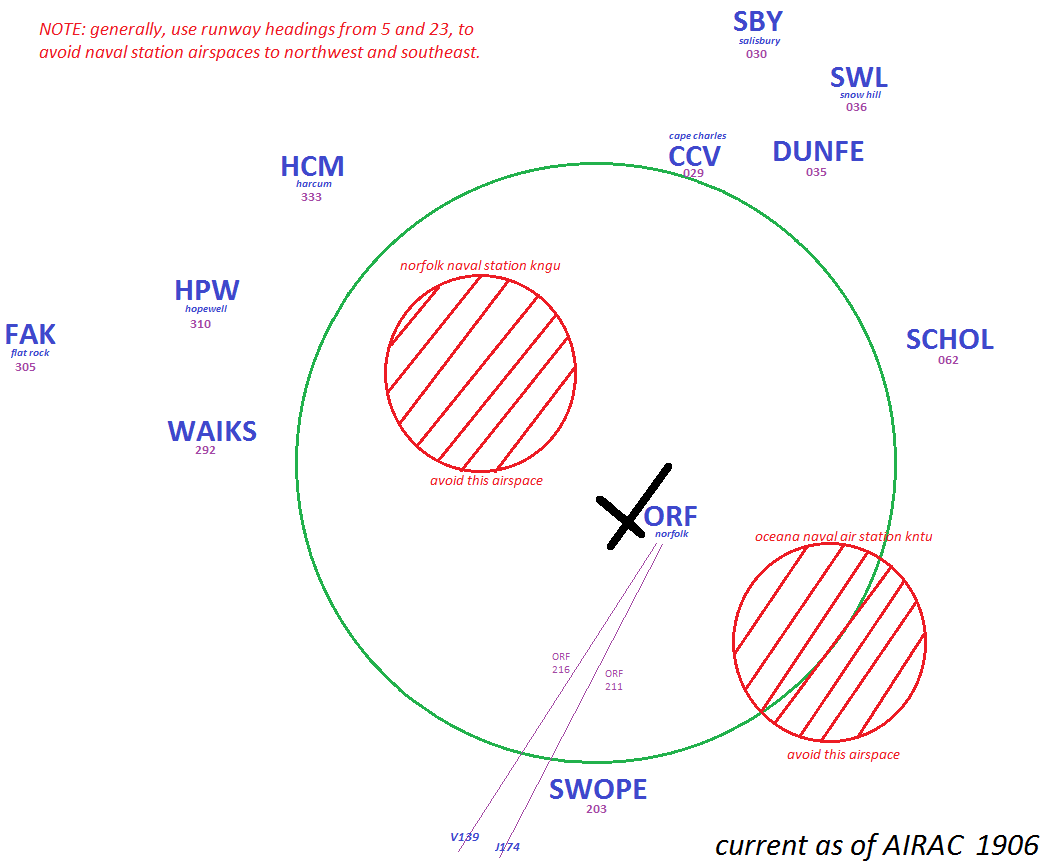
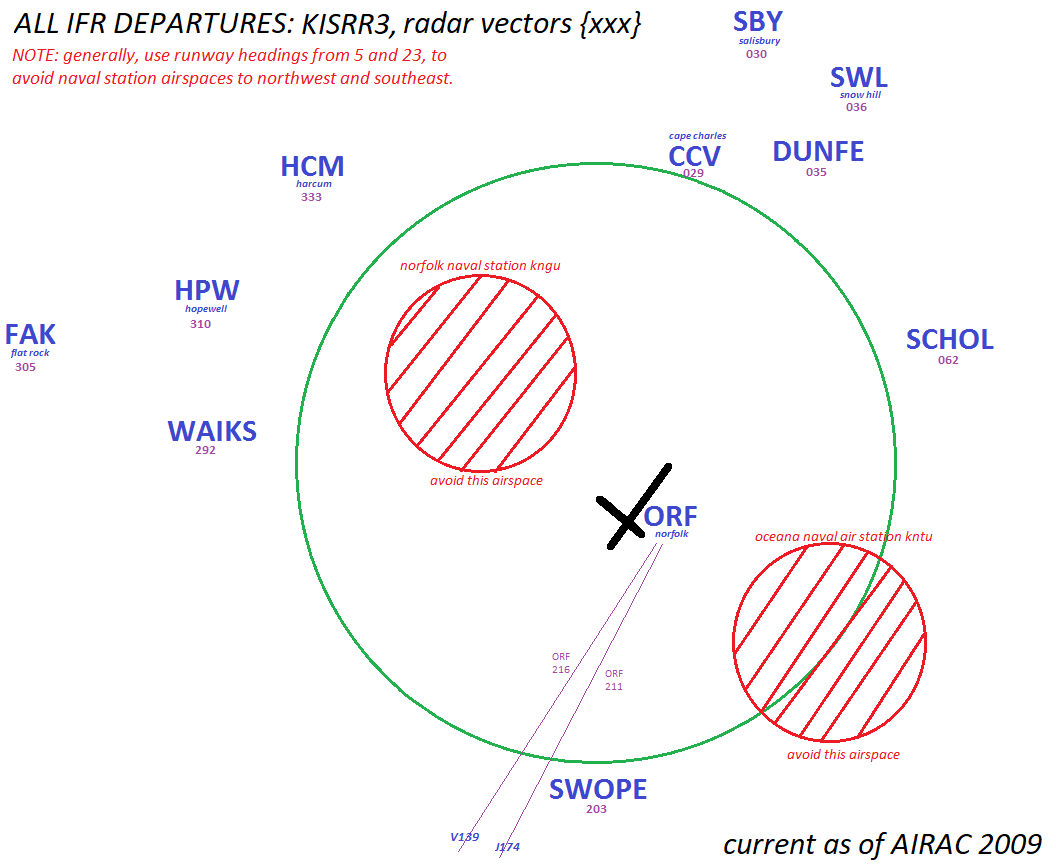
update KORF deps, airlines, aircraft, and add KACY
updated KORF departure diagram to clarify assignment of KISRR3, added a couple airlines and aircraft types, added KACY to main menu and all relevant KACY quickref pages

Changed region(s): [[0.0, 0.0, 0.5938, 0.0935], [0.6562, 0.9665, 1.0, 0.9977]]

diff --git a/public/ZDC_quickreference/airlines.html b/public/ZDC_quickreference/airlines.html
@@ -16,6 +16,7 @@ AAH Aloha
 <br>AMX Aeromexico
 <br>ANA All Nippon
 <br>ANZ New Zealand
+<br>ARG Argentina
 <br>ASA Alaska
 <br>ASH Air Shuttle
 <br>ASQ Acey
@@ -33,6 +34,7 @@ AAH Aloha
 <br>CPA Cathay
 <br>CXA Canadian Express
 <br>COA Continental
+<br>CSN China Southern
 <br>DAL Delta
 <br>DCM Dot Com
 <br>DHL DHL
@@ -49,6 +51,7 @@ AAH Aloha
 <br>FDY Friendly
 <br>FFT Frontier Flight
 <br>GEC Lufthansa Cargo
+<br>GGT Thunderball
 <br>GJS Lindbergh
 <br>GLD Gold
 <br>GTI Giant
@@ -68,6 +71,8 @@ AAH Aloha
 <br>LXJ FlexJet
 <br>LYM Key Lime
 <br>MSR EgyptAir
+<br>MTN Mountain
+<br>NDL Needle
 <br>NKS Spirit Wings
 <br>NWA Northwest
 <br>PAA Clipper
@@ -77,6 +82,7 @@ AAH Aloha
 <br>PDT Piedmont
 <br>POE Porter
 <br>PRD Presidential
+<br>PSO Aero Pegaso
 <br>PSV Power
 <br>PXC Porkbelly
 <br>PXE Red Tape
@@ -85,10 +91,13 @@ AAH Aloha
 <br>RPA Brickyard
 <br>ROU Rouge
 <br>RYR RyanAir
+<br>SAA Springbok
 <br>SCX Sun Country
-<br>SKW Skywest
 <br>SHT Shuttle
+<br>SKW Skywest
+<br>SNK Sputnik
 <br>SOA Solaris
+<br>SOO Southern Air
 <br>SWA Southwest
 <br>SWQ Swift Flight
 <br>TAP Air Portugal

diff --git a/public/ZDC_quickreference/kacy-menu.html b/public/ZDC_quickreference/kacy-menu.html
@@ -1,0 +1,24 @@
+<head>
+<title>VATSIM vZDC DEL / GND / TWR Quick Reference Resource</title>
+</head>
+
+<body>
+
+<font size=-1>
+
+<h3>KACY / ATLANTIC CITY</h3>
+<ul>
+<li><a href="kacy-frequencies.html" target="right">Positions and Frequencies</a>
+<li><a href="kacy-rwyconfigs.html" target="right">Standard Runway Configurations</a>
+<li><a href="kacy-departures.html" target="right">Departures and Departure Gates</a>
+<li><a href="kacy-initialalt.html" target="right">VFR and IFR Initial Altitudes</a>
+<li><a href="kacy-departurehdgs.html" target="right">Tower-Issued Departure Headings</a>
+<li><a href="kacy-missedapproaches.html" target="right">Missed Approaches</a>
+<li><a href="kacy-taxi.html" target="right">Annotated Taxi Diagram</a>
+<li><a href="kacy-parking.html" target="right">Gates and Parking Locations</a>
+<li><a href="https://vzdc.org/storage/files/KACY%20%7C%20Atlantic%20City%20Tower%20&%20TRACON%20SOP_1547179933.pdf" target="right">vZDC Atlantic City SOPs</a>
+</ul>
+
+</font>
+
+</body>

diff --git a/public/ZDC_quickreference/kacy-frequencies.html b/public/ZDC_quickreference/kacy-frequencies.html
@@ -1,0 +1,55 @@
+<head>
+<title>VATSIM vZDC DEL / GND / TWR Quick Reference Resource</title>
+</head>
+
+<body>
+
+<h3>ATLANTIC CITY POSITIONS AND FREQUENCIES</h3>
+
+<table border=0>
+
+<tr>
+<th colspan=2 bgcolor="aaaaaa">LOCAL POSITIONS</th>
+<td></td>
+<th colspan=2 bgcolor="aaaaaa">TRACON POSITIONS</th>
+</tr>
+
+<tr>
+<td align=center>ACY_TWR</td>
+<td align=center>120.300</td>
+<td></td>
+<td align=center>ACY_APP</td>
+<td align=center>124.600</td>
+</tr>
+
+<tr>
+<td align=center>ACY_GND</td>
+<td align=center>121.900</td>
+<td></td>
+<td align=center>ACY_N_APP</td>
+<td align=center>134.250</td>
+</tr>
+
+<tr>
+<td align=center>ACY_DEL</td>
+<td align=center>127.850</td>
+<td></td>
+<td></td>
+<td></td>
+</tr>
+
+<tr>
+<td align=center>KACY_ATIS</td>
+<td align=center>125.725</td>
+<td></td>
+<td></td>
+<td></td>
+</tr>
+
+</table>
+
+<br>
+<br>
+<i><b>NOTE:</b> when splitting Approach into North and South positions, the primary position (on 124.6) becomes South (ACY_S_APP).</i>
+
+</body>

diff --git a/public/ZDC_quickreference/kacy-rwyconfigs.html b/public/ZDC_quickreference/kacy-rwyconfigs.html
@@ -1,0 +1,37 @@
+<head>
+<title>VATSIM vZDC DEL / GND / TWR Quick Reference Resource</title>
+</head>
+
+<body>
+
+<h3>ATLANTIC CITY RUNWAY CONFIGURATIONS</h3>
+
+<table border=0>
+
+<tr>
+<th>Title</th>
+<td></td>
+<th>Winds</th>
+<td></td>
+<th>Arriving / Departing</th>
+</tr>
+
+<tr>
+<td align=center>WEST</td>
+<td align=center>...</td>
+<td align=center>calm, from 220-359, or from 000-039</td>
+<td align=center>...</td>
+<td align=center>31 <i>(GA: 4, 4 short of 31, or 22 by request)</i></a>
+</tr>
+
+<tr>
+<td align=center>EAST</td>
+<td align=center>...</td>
+<td align=center>from 040-219</td>
+<td align=center>...</td>
+<td align=center>13 <i>(GA: 4, 4 short of 31, or 22 by request)</i></a>
+</tr>
+
+</table>
+
+</body>

diff --git a/public/ZDC_quickreference/kacy-departurehdgs.html b/public/ZDC_quickreference/kacy-departurehdgs.html
@@ -1,0 +1,30 @@
+<head>
+<title>VATSIM vZDC DEL / GND / TWR Quick Reference Resource</title>
+</head>
+
+<body>
+
+<h3>ATLANTIC CITY TOWER-ISSUED DEPARTURE HEADINGS</h3>
+
+<table border=1>
+
+<tr>
+<th bgcolor="ff99ff" width=50%>OPERATION</th>
+<th bgcolor="ff99ff" width=50%>HEADING ISSUED</th>
+</tr>
+
+<tr>
+<td align=center>ACY# DEPARTURE</td>
+<td align=center><i>{ no heading issued }</i></td>
+</tr>
+
+<tr>
+<td align=center>All Others (VFR and IFR)</td>
+<td align=center>Runway Heading</td>
+</tr>
+
+</table>
+
+
+
+</body>

diff --git a/public/ZDC_quickreference/aircraft.html b/public/ZDC_quickreference/aircraft.html
@@ -100,11 +100,13 @@ A124 Antonov
 <br>BE60 Duke
 <br>BE76 Duchess
 <br>BE90 King Air
+<br>BE9L King Air
 <br>B350 King Air
 <br>
 <br>C152 Cessna
 <br>C170 Cessna
 <br>C172 Skyhawk
+<br>C177 Cardinal
 <br>C182 Skylane
 <br>C208 Caravan
 <br>C25A Citation
@@ -198,12 +200,15 @@ A124 Antonov
 <br>PA28 Aztec
 <br>PA30 Twin Commanche
 <br>PA31 Navajo
+<br>PA44 Seminole
 <br>PAY1 Cheyenne
 <br>PAY2 Cheyenne
 <br>PAY3 Cheyenne
 <br>PAY4 Cheyenne
 <br>
 <br>PC12 Pilatus
+<br>
+<br>PRM1 Premier
 <br>
 <br>S76 Sikorsky
 <br>

diff --git a/public/ZDC_quickreference/kacy-initialalt.html b/public/ZDC_quickreference/kacy-initialalt.html
@@ -1,0 +1,31 @@
+<head>
+<title>VATSIM vZDC DEL / GND / TWR Quick Reference Resource</title>
+</head>
+
+<body>
+
+<h3>ATLANTIC CITY INITIAL ALTITUDES</h3>
+
+<table border=0>
+
+<tr>
+<th>Category</th>
+<th width=5%>
+<th>Altitude</th>
+</tr>
+
+<tr>
+<td align=center>Atlantic City #</td>
+<td></td>
+<td align=center>climb via SID</td>
+</tr>
+
+<tr>
+<td align=center>All Others (IFR and VFR)</td>
+<td></td>
+<td align=center>2,000</td>
+</tr>
+
+</table>
+
+</body>

diff --git a/public/ZDC_quickreference/kacy-missedapproaches.html b/public/ZDC_quickreference/kacy-missedapproaches.html
@@ -1,0 +1,25 @@
+<head>
+<title>VATSIM vZDC DEL / GND / TWR Quick Reference Resource</title>
+</head>
+
+<body>
+
+<h3>ATLANTIC CITY MISSED APPROACHES</h3>
+
+<table>
+
+<tr>
+<th>Runway</th>
+<th width=5%></th>
+<th>Tower-Instructed Missed Approach Procedure</th>
+</tr>
+
+<tr>
+<td align=center>ALL</td>
+<td></td>
+<td align=center>fly runway heading, maintain 2000</td>
+</tr>
+
+</table>
+
+</body>

diff --git a/public/ZDC_quickreference/mainmenu.html b/public/ZDC_quickreference/mainmenu.html
@@ -36,6 +36,7 @@
 <li><a href="kbwi-menu.html" target="lowerleft">KBWI / BALTIMORE</a></li>
 <li><a href="krdu-menu.html" target="lowerleft">KRDU / RALEIGH</a></li>
 <li><a href="korf-menu.html" target="lowerleft">KORF / NORFOLK</a></li>
+<li><a href="kacy-menu.html" target="lowerleft">KACY / ATLANTIC CITY</a></li>
 </ul>
 
 <br>

diff --git a/public/ZDC_quickreference/kacy-parking.html b/public/ZDC_quickreference/kacy-parking.html
@@ -1,0 +1,10 @@
+<head>
+<title>VATSIM vZDC DEL / GND / TWR Quick Reference Resource</title>
+</head>
+
+<body>
+
+<h3>ATLANTIC CITY PARKING LOCATION DIAGRAM</h3>
+<img src="kacy-parking.jpg" width=100%>
+
+</body>

diff --git a/public/ZDC_quickreference/kacy-departures.html b/public/ZDC_quickreference/kacy-departures.html
@@ -1,0 +1,10 @@
+<head>
+<title>VATSIM vZDC DEL / GND / TWR Quick Reference Resource</title>
+</head>
+
+<body>
+
+<h3>ATLANTIC CITY DEPARTURE GATES</h3>
+<img src="kacy-departures.png" width=100%>
+
+</body>

diff --git a/public/ZDC_quickreference/kacy-taxi.html b/public/ZDC_quickreference/kacy-taxi.html
@@ -1,0 +1,10 @@
+<head>
+<title>VATSIM vZDC DEL / GND / TWR Quick Reference Resource</title>
+</head>
+
+<body>
+
+<h3>ATLANTIC CITY TAXI DIAGRAM</h3>
+<img src="kacy-taxi.jpg" width=100%>
+
+</body>
